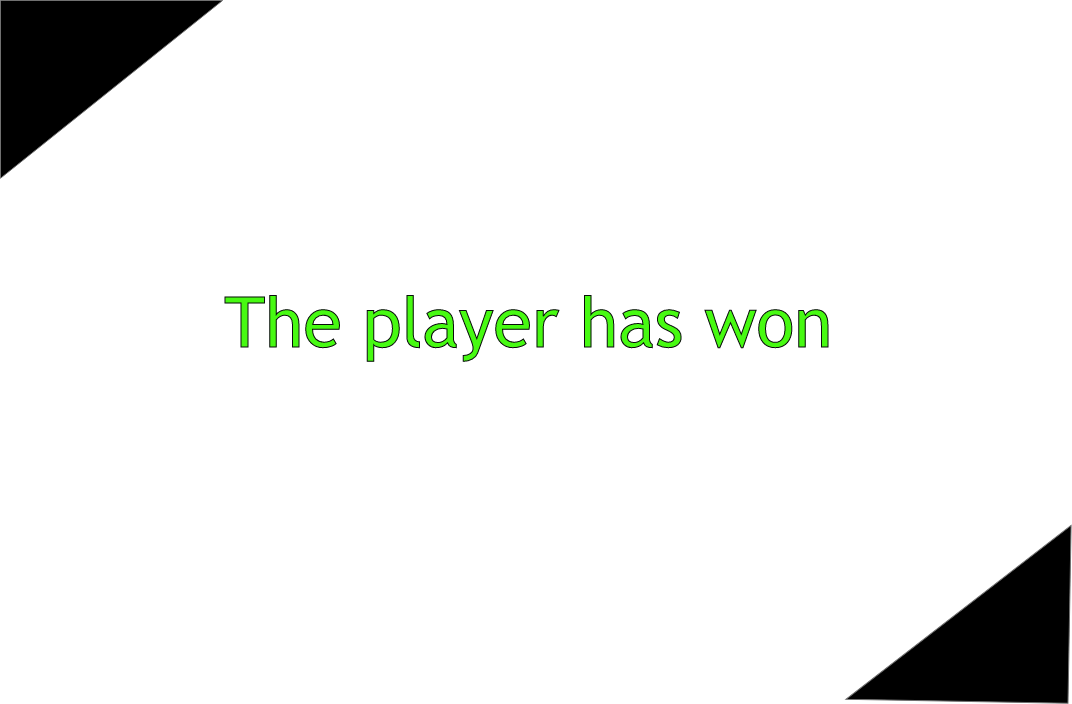
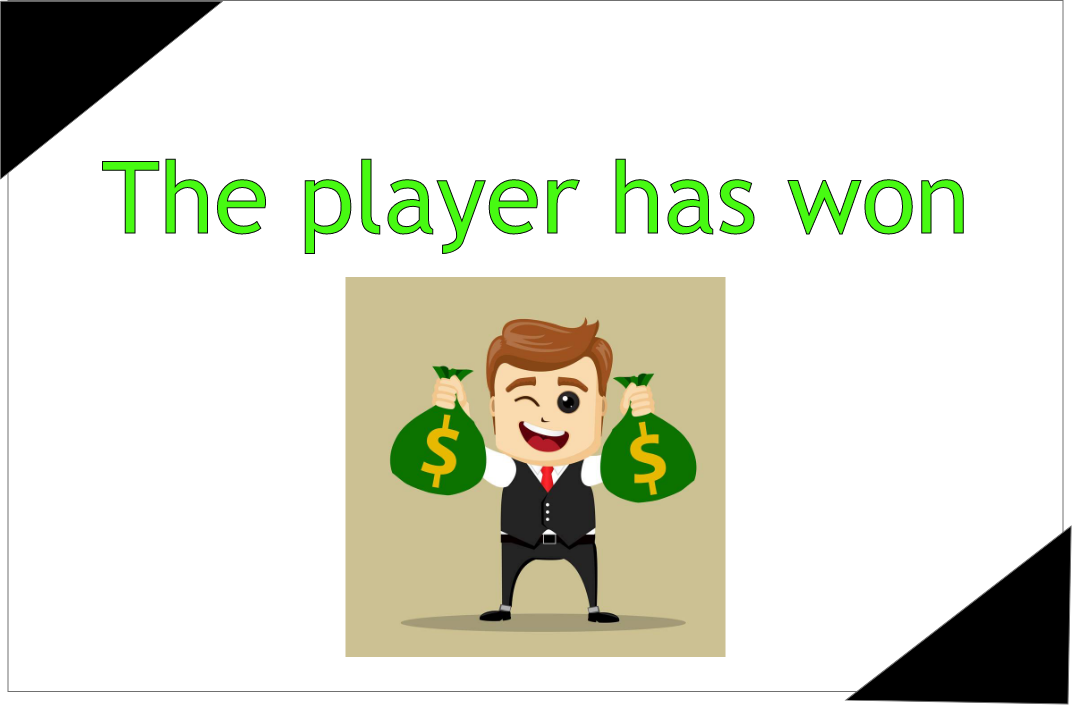
Make updates to baccara

diff --git a/Casino/src/main/java/Baccara/Controller/BaccaraGameViewController.java b/Casino/src/main/java/Baccara/Controller/BaccaraGameViewController.java
@@ -78,6 +78,7 @@ public class BaccaraGameViewController implements Initializable, Observer {
     private ImageView thirdRightImage;
     @FXML
     private ImageView bankerBetCoin;
+    @FXML
     private ImageView winnerCard;
     @FXML
     private Text userBalance;
@@ -265,9 +266,18 @@ public class BaccaraGameViewController implements Initializable, Observer {
                                     case "Dealer":
                                     case "Tie":
                                         // checkForNewCards(format);
-                                        updateBalanceAndBet();
-                                        resetImageViews();
-                                        setCardBacks();
+                                        this.winnerCard.setImage(new Image(String.format(format, "playerWon.png")));
+                                        this.winnerCard.toFront();
+                                        centerImage(this.winnerCard);
+                                        this.winnerCard.setVisible(true);
+                                        RotateTransition rotator = createRotator(this.winnerCard, 0, 360, 1500, 3);
+                                        rotator.play();
+                                        rotator.setOnFinished(imageChange -> {
+                                            updateBalanceAndBet();
+                                            resetImageViews();
+                                            setCardBacks();
+                                            this.winnerCard.setVisible(false);
+                                        });
                                         break;
                                 }
                             });

diff --git a/Casino/src/main/java/Baccara/Entity/BaccaraCard.java b/Casino/src/main/java/Baccara/Entity/BaccaraCard.java
@@ -98,10 +98,6 @@ public class BaccaraCard {
         return cardValue;
     }
 
-    private void evaluateImageLink() {
-
-    }
-
     public String getImageLocation() {
         return this.imageLocation;
     }
